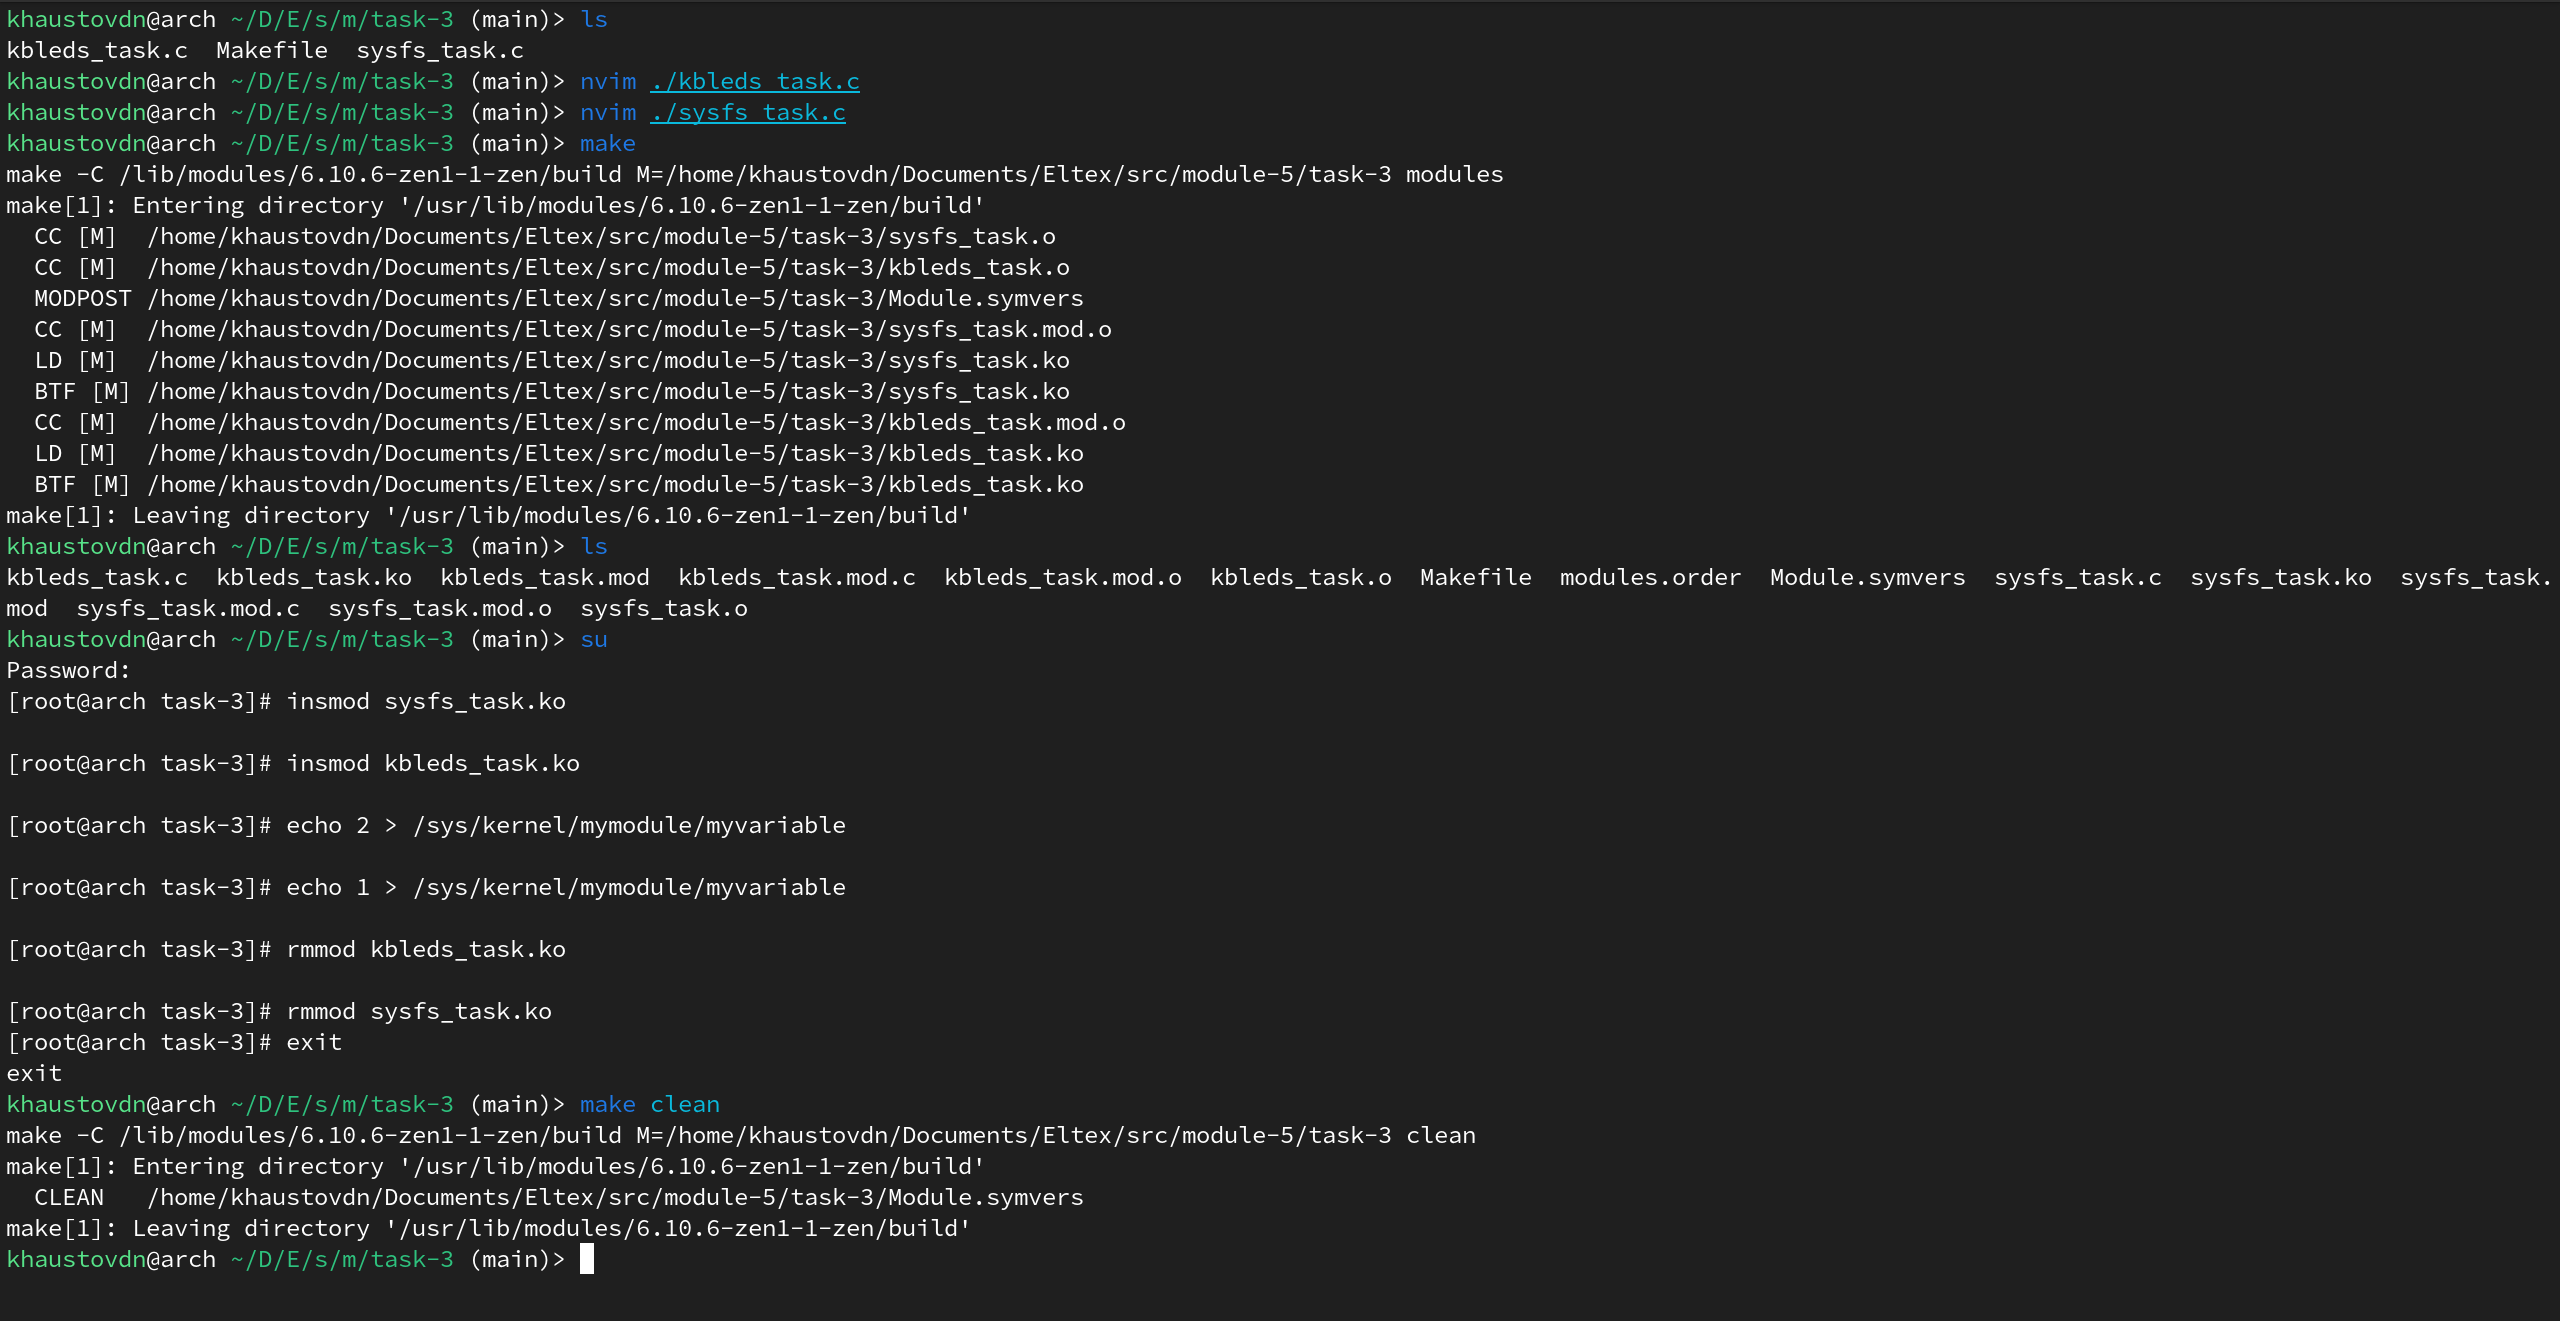
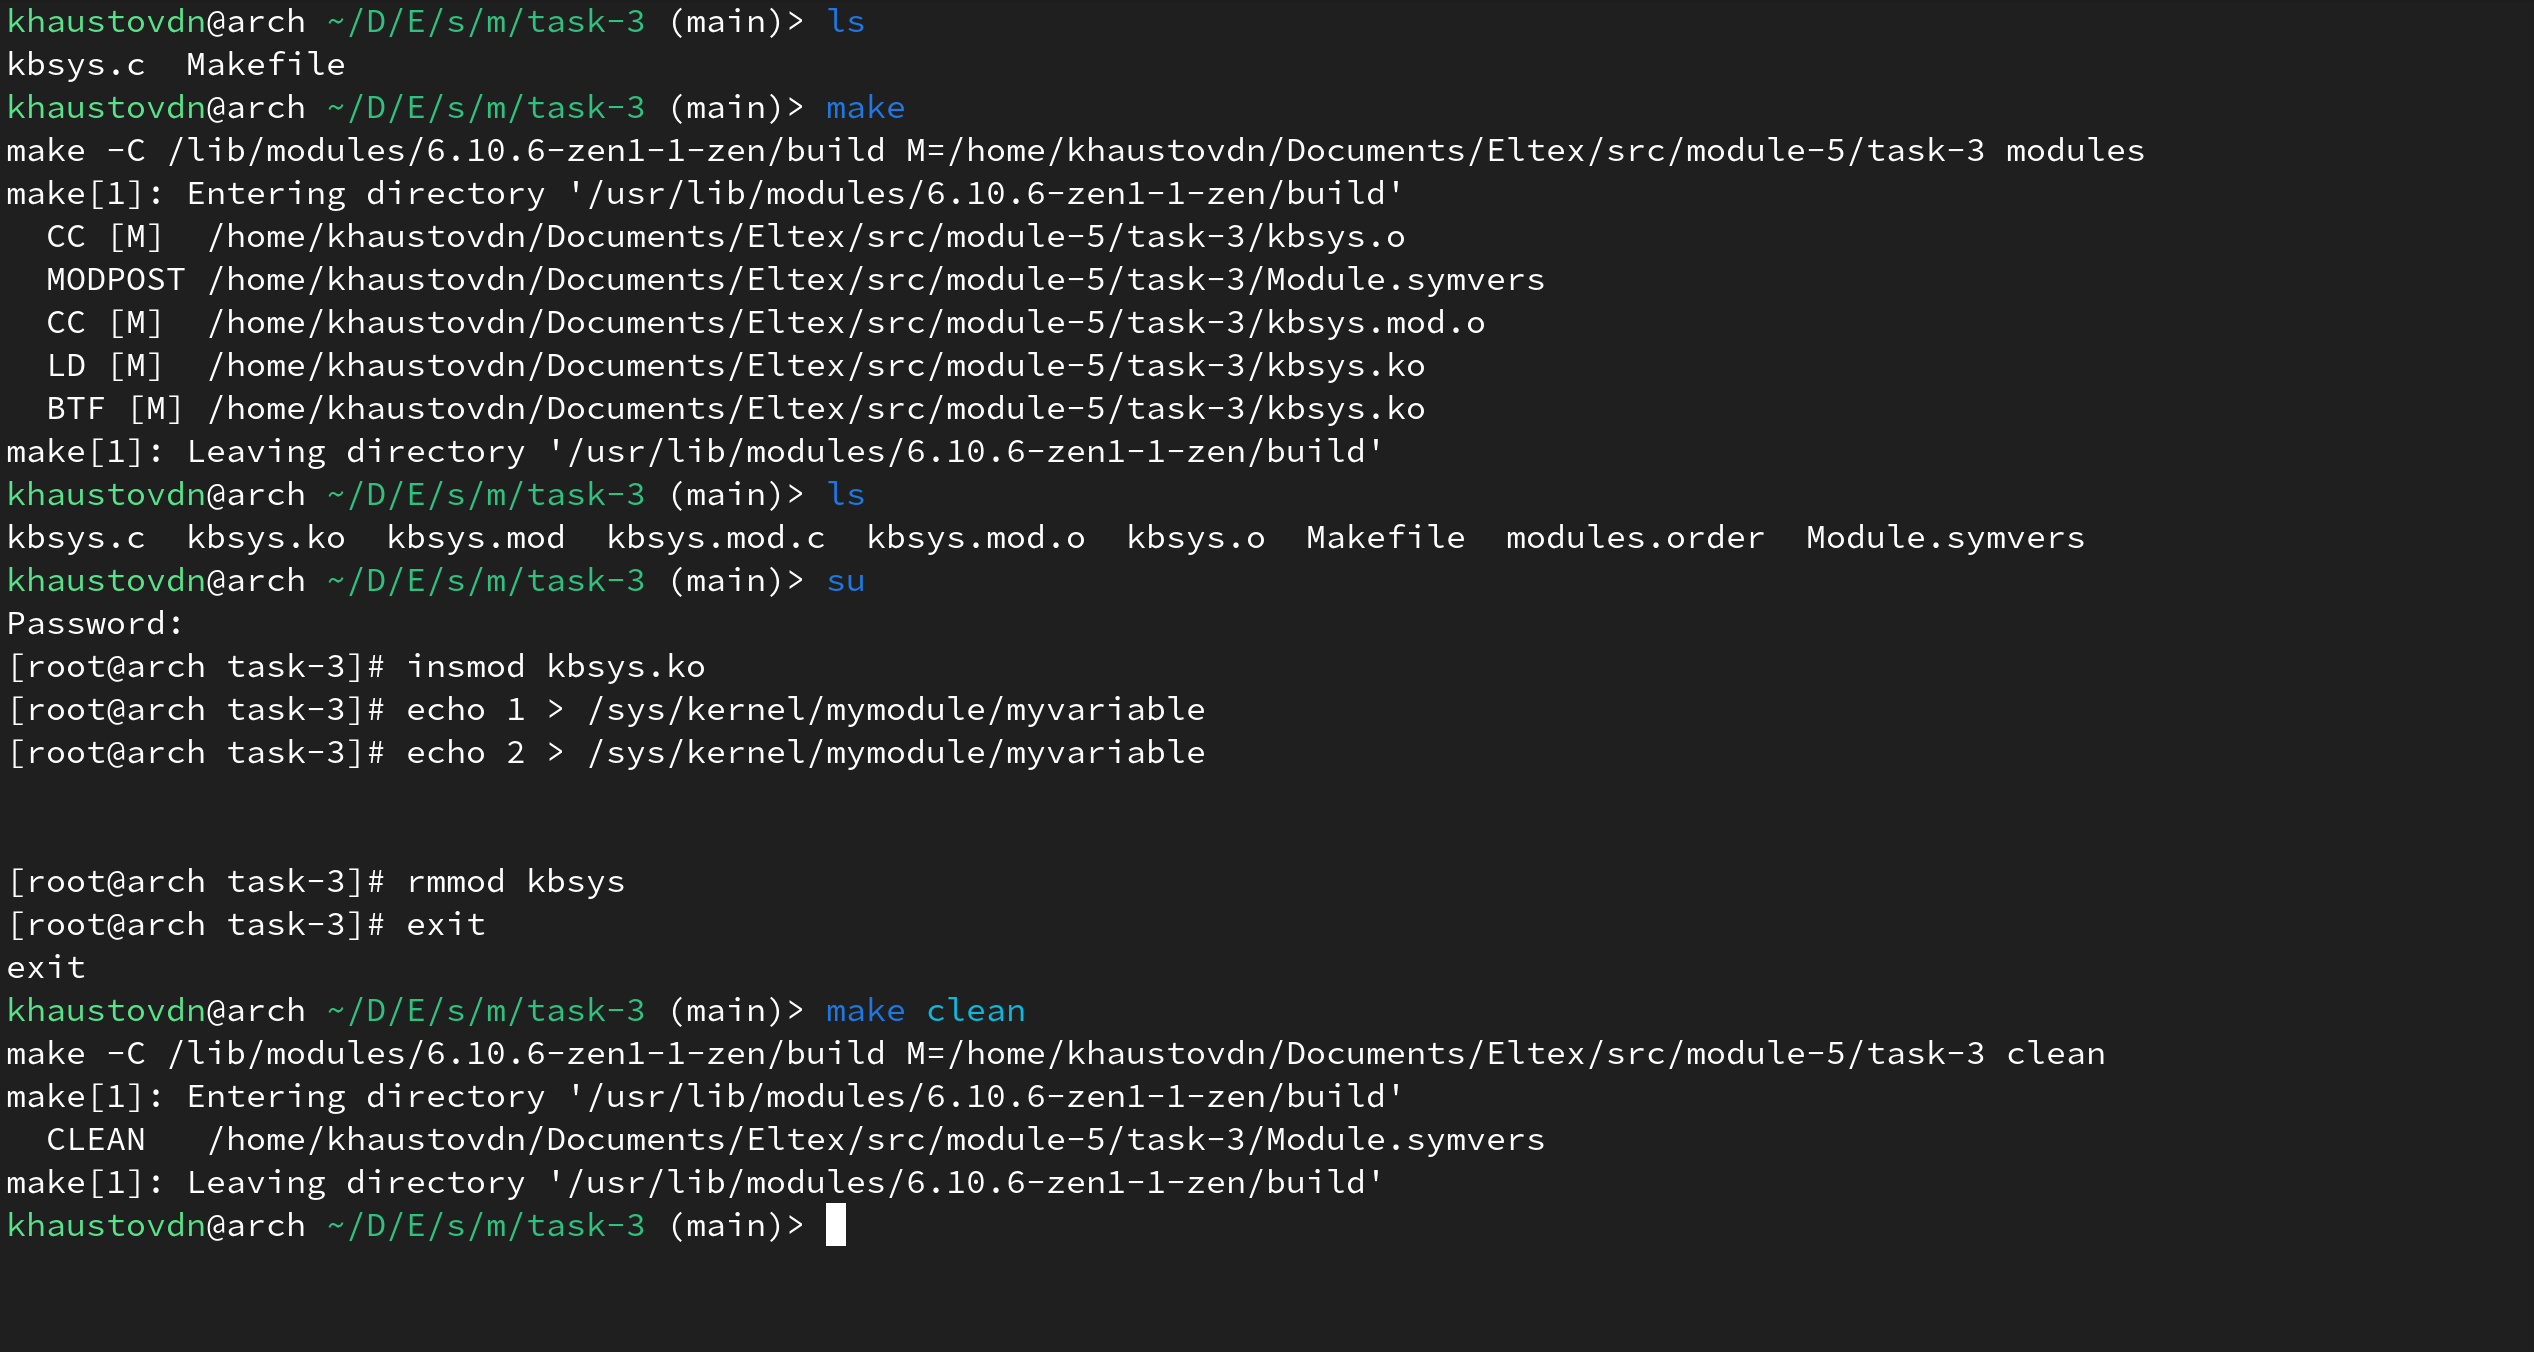
task-3: created module with kbleds (normal version)

diff --git a/src/module-5/task-3/kbsys.c b/src/module-5/task-3/kbsys.c
@@ -1,0 +1,122 @@
+#include <linux/fs.h>
+#include <linux/init.h>
+#include <linux/kd.h>
+#include <linux/kobject.h>
+#include <linux/module.h>
+#include <linux/string.h>
+#include <linux/sysfs.h>
+#include <linux/tty.h>
+#include <linux/vt.h>
+#include <linux/vt_kern.h>
+#include <linux/console_struct.h>
+
+MODULE_LICENSE("GPL");
+MODULE_AUTHOR("Khaustovdn");
+MODULE_DESCRIPTION("Keyboard with sys.");
+
+static struct timer_list my_timer;
+static struct tty_driver* my_driver;
+static struct kobject* mymodule;
+
+static unsigned long kbledstatus = 0;
+static int myvariable = 0;
+
+#define ALL_LEDS_ON 0x07
+#define RESTORE_LEDS 0xFF
+
+static ssize_t
+myvariable_show(struct kobject* kobj,
+                struct kobj_attribute* attr,
+                char* buf)
+{
+  return sprintf(buf, "%d\n", myvariable);
+}
+
+static ssize_t
+myvariable_store(struct kobject* kobj,
+                 struct kobj_attribute* attr,
+                 char* buf,
+                 size_t count)
+{
+  sscanf(buf, "%du", &myvariable);
+  return count;
+}
+
+static struct kobj_attribute myvariable_attribute =
+  __ATTR(myvariable,
+         0660,
+         myvariable_show,
+         (void*)myvariable_store);
+
+static void
+my_timer_func(struct timer_list* unused)
+{
+  struct tty_struct* t = vc_cons[fg_console].d->port.tty;
+
+  if (kbledstatus == ALL_LEDS_ON)
+    kbledstatus = RESTORE_LEDS;
+  else
+    kbledstatus = 1 << myvariable;
+
+  (my_driver->ops->ioctl)(t, KDSETLED, kbledstatus);
+
+  my_timer.expires = jiffies;
+  add_timer(&my_timer);
+}
+
+static int __init
+kbsys_init(void)
+{
+  int i;
+  int error = 0;
+
+  pr_info("kbsys: loading\n");
+  pr_info("kbsys: fgconsole is %x\n", fg_console);
+
+  mymodule =
+    kobject_create_and_add("mymodule", kernel_kobj);
+  if (!mymodule)
+    return -ENOMEM;
+
+  error =
+    sysfs_create_file(mymodule, &myvariable_attribute.attr);
+  if (error) {
+    pr_info("failed to create the myvariable file "
+            "in /sys/kernel/mymodule\n");
+  }
+
+  for (i = 0; i < MAX_NR_CONSOLES; i++) {
+    if (!vc_cons[i].d)
+      break;
+    pr_info("poet_atkm: console[%i/%i] #%i, tty %p\n",
+            i,
+            MAX_NR_CONSOLES,
+            vc_cons[i].d->vc_num,
+            (void*)vc_cons[i].d->port.tty);
+  }
+  pr_info("kbsys: finished scanning consoles\n");
+
+  my_driver = vc_cons[fg_console].d->port.tty->driver;
+  pr_info("kbsys: tty driver name %s\n",
+          my_driver->driver_name);
+
+  timer_setup(&my_timer, my_timer_func, 0);
+  my_timer.expires = jiffies;
+  add_timer(&my_timer);
+
+  return error;
+}
+
+static void __exit
+kbsys_cleanup(void)
+{
+  pr_info("kbsys: unloading...\n");
+  del_timer(&my_timer);
+  (my_driver->ops->ioctl)(vc_cons[fg_console].d->port.tty,
+                          KDSETLED,
+                          RESTORE_LEDS);
+  kobject_put(mymodule);
+}
+
+module_init(kbsys_init);
+module_exit(kbsys_cleanup);
